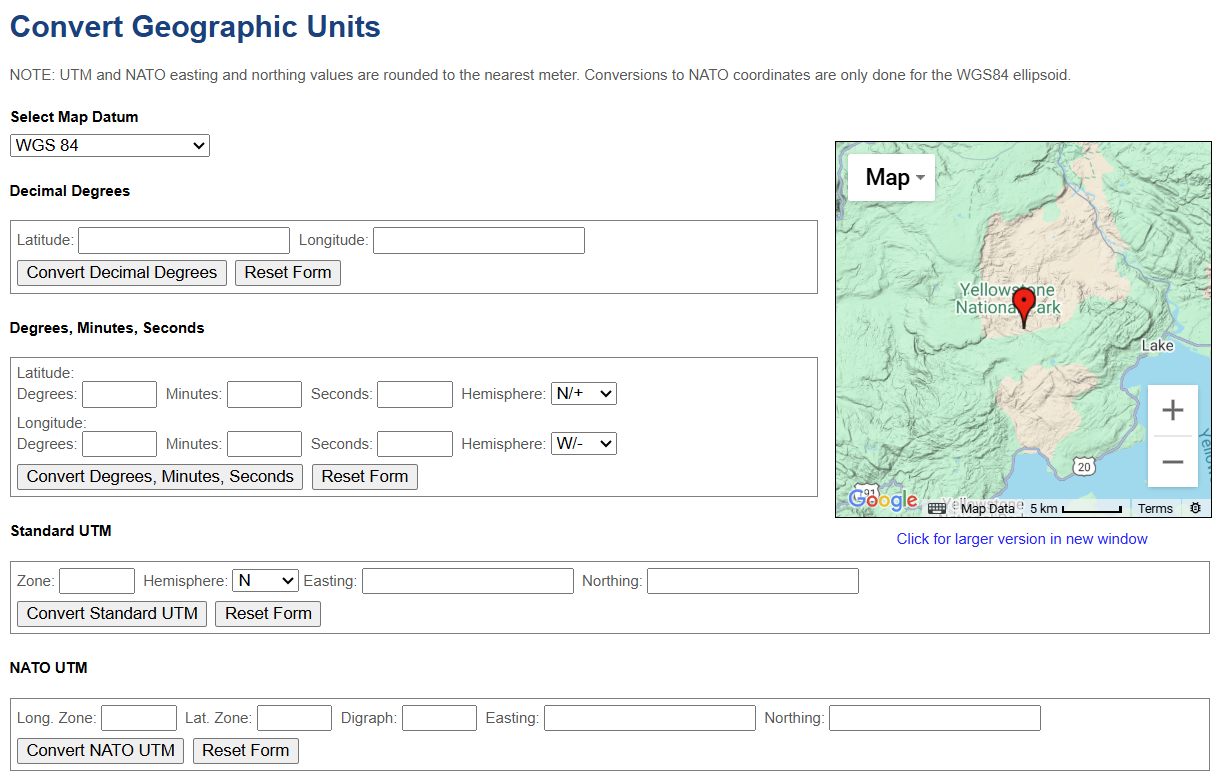
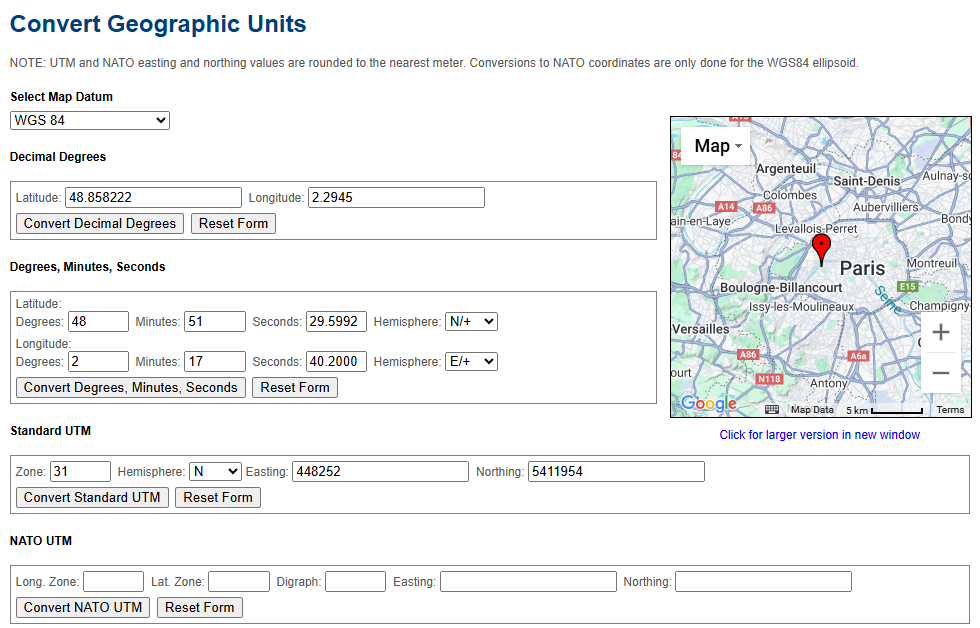
GITBOOK-convert-geographic-units-6: freyanicole's Oct 25 changes

diff --git a/gitbook/tools/convert-geographic-units/README.md b/gitbook/tools/convert-geographic-units/README.md
@@ -1,8 +1,8 @@
 ---
+updated: '2025-09-25'
 description: >-
   A tool that converts various geographic coordinates to support diverse mapping
   and spatial analysis needs.
-updated: '2025-09-25'
 ---
 
 # Convert Geographic Units
@@ -24,6 +24,10 @@ Montana State University's Convert Geographic Units tool converts latitude and l
 * **NATO UTM:** Convert to and from latitude zone and longitude zone, digraph, Easting and Northing.
 * **Basic Interactive Google Map:** Zoom, map/satellite options & labels option.
 
+This tool can be used by researchers to translate coordinates between formats so geolocated claims, EXIF GPS dumps or witness-reported DMS coordinates can be placed precisely onto satellite imagery or map grids. The datum selector can also be used to ensure the coordinate system matches the map or imagery used. In addition, for investigations involving military activity or NATO reporting, the tool’s NATO/UTM outputs let researchers generate standard grid references for cross-checking logs, manifests, or witness reports.
+
+For example, select the WGS 84 datum and enter the Decimal Degrees for the Eiffel Tower (48.858222, 2.2945) to convert them into Degrees Minutes Seconds (DMS) or Standard UTM coordinates.
+
 <figure><img src=".gitbook/assets/image.png" alt=""><figcaption></figcaption></figure>
 
 ## Cost
@@ -42,7 +46,7 @@ Montana State University's Convert Geographic Units tool converts latitude and l
 
 ## Limitations
 
-* **UTM and NATO**: UTM and NATO easting and northing values are rounded to the nearest meter. Conversions to NATO coordinates are only done for the WGS84 ellipsoid (according to the tool).
+* **UTM and NATO**: UTM and NATO easting and northing values are rounded to the nearest meter. Conversions to NATO coordinates are only done for the WGS84 ellipsoid.
 
 ## Ethical Considerations
 
